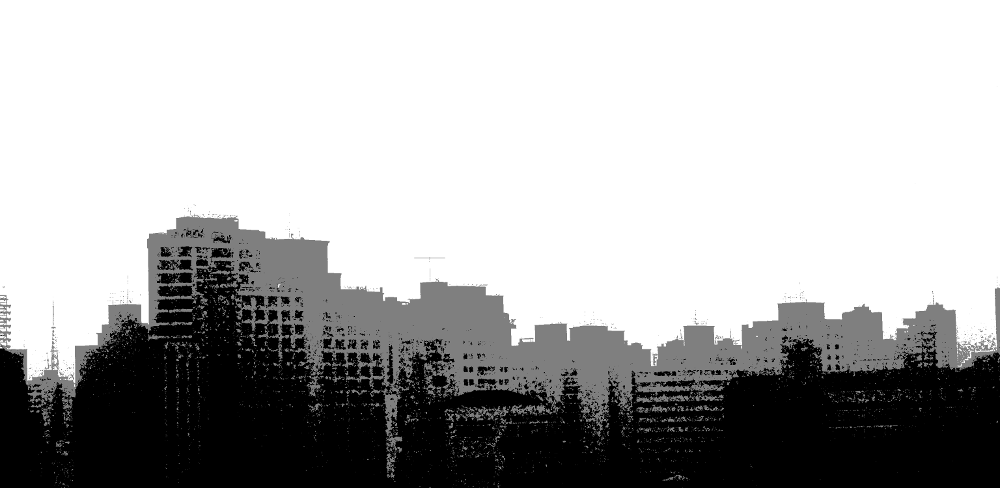
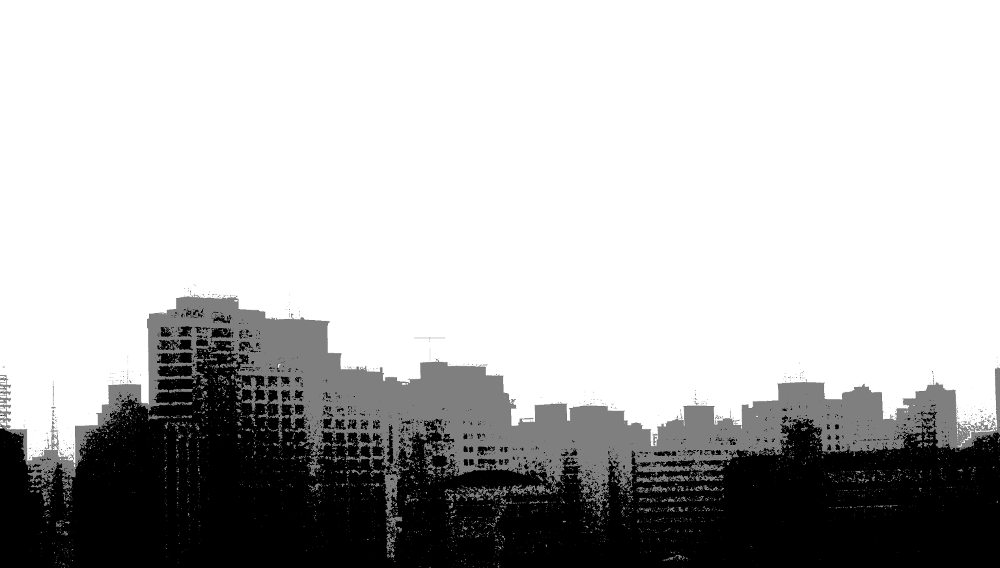
Cidade: box size increased, background adapted to new box.

Changed region(s): [[0.0, 0.4303, 1.0, 0.9836]]

diff --git a/web/css/cidade.css b/web/css/cidade.css
@@ -14,7 +14,7 @@ body {
 }
 
 #box {
-	width: 700px;
+	width: 860px;
 	margin: 80px auto;
 }
 
@@ -29,21 +29,20 @@ header h1, header address {
 }
 
 #middle {
-	width: 100%;
-	height: 222px;
 	box-shadow: 0 4px 8px 0 rgba(0, 0, 0, 0.4), 0 6px 20px 0 rgba(0, 0, 0, 0.38);
 	opacity: 0.94;
+	overflow: auto;
 }
 
 nav {
 	float: left;
-	width: 200px;
-	height: 222px;
 }
 
 nav li {
+	height: 54px;
 	margin: 6px;
 	padding: 6px;
+	line-height: 54px;
 	text-align: right;
 	list-style: none;
 	font-size: 16px;
@@ -72,12 +71,10 @@ li.highlight a {
 }
 
 main {
-	float: left;
-	width: 488px;
-	height: 210px;
-	margin-top: 6px;
-	padding-right: 6px;
+	height: 426px;
+	margin: 6px;
 	overflow: auto;
+	font-size: 14px;
 }
 
 main.normal {
@@ -89,9 +86,16 @@ main.loading {
 }
 
 main ul {
-	margin-left: 8px;
-	line-height: 26px;
+	line-height: 30px;
 	list-style: none;
+}
+
+main > ul {
+	margin: 0 8px;
+}
+
+main > ul ul {
+	margin-left: 16px;
 }
 
 main a {
